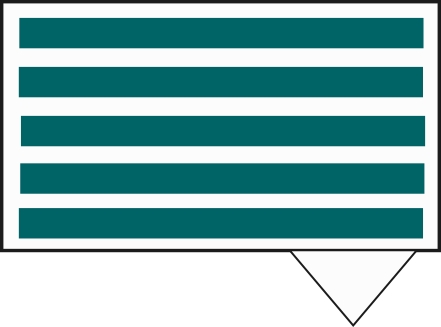
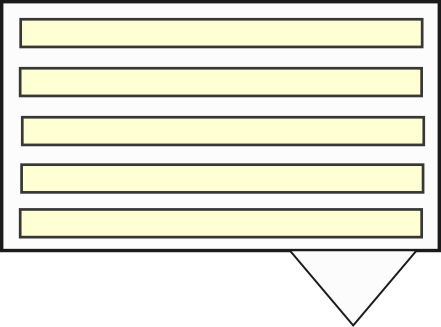
Color and formatting

diff --git a/html/feed-template.html b/html/feed-template.html
@@ -1,4 +1,4 @@
-<html style="background-color: #e6feff;">
+<html style="background-color: #737373;">
 <head>
 <meta charset="utf-8"/>
 <title>Posts</title>
@@ -6,20 +6,22 @@
 <head>
 <body>
 <div id="wrapper" style="width: 90%; margin-left: auto; margin-right: auto">
-<div id="banner" style="background-color: #00c5cc; height: 30%; border: 1px solid #006366; padding: 10px; margin: 0px 0px 10px 0px">
-  <h1 style="font-size: 250%; color: #1b1b1b">Ex Roomies :'( Still Besties :)</h1>
-  <a href="../html/profile-template.html">My profile</a>
-  <a href="../html/submit-post.html">New post</a>
+<div id="banner" style="background-color: #ffffd4; height: 18%; border: 1px solid #5c5c3d; padding: 10px; margin: 0px 0px 10px 0px">
+  <h1 style="font-size: 64; color: #2b2b2b; font-family: calibri; margin-top: 10px">Ex Roomies :'( Still Besties :)</h1>
+  <div style="margin-bottom: 25px">
+    <a href="../html/profile-template.html">My profile</a>
+    <a href="../html/submit-post.html">New post</a>
+  </div>
 </div>
 <div id="feed-list" style="height=70%">
-<div v-for="post in posts" v-if="post.content && !post.parent_id" style="background-color: #fcfcfc; height:20%; border: 1px outset #006366; padding: 5px; margin: 1px;">
-  <div>
-    <a @click="voteOnPost(post.post_id)" style="display: inline-block; width: 5%; cursor: pointer; text-align: center"><img src="../icons/voteicon.png" style="width: 35%; height: 15%"></a>
-    <h3 style="font-size: 150%; color: #1b1b1b; display: inline-block; cursor: pointer" @click="openPost(post.link)">{{ body(post.content) }}</h3>
+<div v-for="post in posts" v-if="post.content && !post.parent_id" style="background-color: #fffff4; height:22%; border: 1px outset #5c5c3d; padding: 5px; margin: 1px;">
+  <div style="width: 90%; margin-left: auto; margin-right: auto">
+    <a @click="voteOnPost(post.post_id)" style="display: inline-block; width: 5%; cursor: pointer; text-align: left"><img src="../icons/voteicon.png" style="width: 25px; height: 25px"></a>
+    <h3 style="font-size: 42; color: #2b2b2b; display: inline-block; cursor: pointer; font-family: calibri" @click="openPost(post.link)">{{ body(post.content) }}</h3>
   </div>
-  <div style="width: 100%">
-    <p style="font-size: 75%; color: #1b1b1b; display: inline-block; width: 90%">Posted by {{ post.author }} on {{ post.create_date }}</p>
-   <a @click="viewComments(post.post_id)" style="display: inline-block; text-align: right; width: 8%" href="../html/comments-template.html"><img src="../icons/commenticon.png" style="height: 25%"></a>
+  <div style="width: 90%; margin-left: auto; margin-right: auto; margin-bottom: 10px; display: flex; align-items: center;">
+    <p style="font-size: 24; color: #1b1b1b; display: inline-block; width: 90%">Posted by {{ post.author }} on {{ post.create_date }}</p>
+   <a @click="viewComments(post.post_id)" style="display: inline-block; text-align: right; width: 8%" href="../html/comments-template.html"><img src="../icons/commenticon.png" style="height: 60px; width: 75px"></a>
   </div>
 </div>
 </div>
